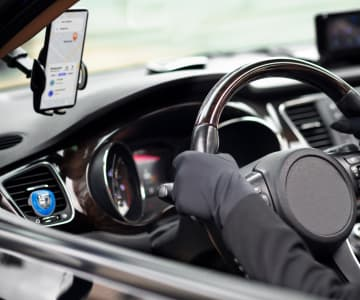
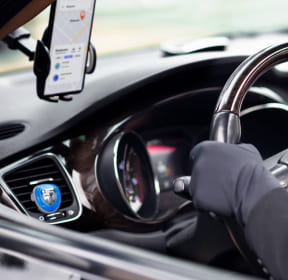
add-36-pictures

diff --git a/index.html b/index.html
@@ -377,12 +377,36 @@
           <ul class="portfolio-list">
             <li class="portfolio-items">
               <div class="image-overlay-box">
-                <img
+                <picture>
+                  <source
+                    srcset="
+                      ./images/portfolio/bankinterface-desktop.jpg    1x,
+                      ./images/portfolio/bankinterface-desktop-2x.jpg 2x
+                    "
+                    media="(min-width: 1158px)"
+                  />
+                  <source
+                    srcset="
+                      ./images/portfolio/bankinterface-tab.jpg    1x,
+                      ./images/portfolio/bankinterface-tab-2x.jpg 2x
+                    "
+                    media="(min-width: 768px)"
+                  />
+                  <source
+                    srcset="
+                      ./images/portfolio/bankinterface.jpg    1x,
+                      ./images/portfolio/bankinterface-2x.jpg 2x
+                    "
+                    media="(max-width: 767px)"
+                  />
+                  <img
                   class="portfolio-img"
                   src="./images/portfolio/bankinterface.jpg"
-                  alt="bankigapp"
+                  alt="bankingapp"
                   width="360"
                 />
+                </picture>
+             
                 <p class="portfolio-overlay">
                   14 Stylish and User-Friendly App Design Concepts · Task
                   Manager App · Calorie Tracker App · Exotic Fruit Ecommerce App
@@ -397,12 +421,36 @@
 
             <li class="portfolio-items">
               <div class="image-overlay-box">
-                <img
-                  class="portfolio-img"
-                  src="./images/portfolio/phone.jpg"
-                  alt="phone"
-                  width="360"
+                <picture>
+                  <source
+                  srcset="
+                  ./images/portfolio/phone-desktop.jpg 1x,
+                    ./images/portfolio/phone-desktop-2x.jpg 2x
+                  "
+                  media="(min-width: 1158px)"
                 />
+                <source
+                  srcset="
+                    ./images/portfolio/phone-tab.jpg    1x,
+                    ./images/portfolio/phone-tab-2x.jpg 2x
+                  "
+                  media="(min-width: 768px)"
+                />
+                <source
+                  srcset="
+                  ./images/portfolio/phone.jpg 1x,
+                  ./images/portfolio/phone-2x.jpg 2x
+                  "
+                  media="(max-width: 767px)"
+                />
+                <img
+                class="portfolio-img"
+                src="./images/portfolio/phone.jpg"
+                alt="phone"
+                width="360"
+              />
+                </picture>
+               
                 <p class="portfolio-overlay">
                   14 Stylish and User-Friendly App Design Concepts · Task
                   Manager App · Calorie Tracker App · Exotic Fruit Ecommerce App
@@ -417,12 +465,36 @@
 
             <li class="portfolio-items">
               <div class="image-overlay-box">
+                <picture>
+                  <source
+                  srcset="
+                  ./images/portfolio/laptop-desktop.jpg 1x,
+                    ./images/portfolio/laptop-desktop-2x.jpg 2x
+                  "
+                  media="(min-width: 1158px)"
+                />
+                <source
+                  srcset="
+                    ./images/portfolio/laptop-tab.jpg    1x,
+                    ./images/portfolio/laptop-tab-2x.jpg 2x
+                  "
+                  media="(min-width: 768px)"
+                />
+                <source
+                  srcset="
+                  ./images/portfolio/laptop.jpg 1x,
+                  ./images/portfolio/laptop-2x.jpg 2x
+                  "
+                  media="(max-width: 767px)"
+                />
                 <img
                   class="portfolio-img"
                   src="./images/portfolio/laptop.jpg"
                   alt="laptop"
                   width="360"
                 />
+                </picture>
+                
                 <p class="portfolio-overlay">
                   14 Stylish and User-Friendly App Design Concepts · Task
                   Manager App · Calorie Tracker App · Exotic Fruit Ecommerce App
@@ -438,12 +510,37 @@
 
             <li class="portfolio-items">
               <div class="image-overlay-box">
-                <img
+                <picture>
+                  <picture>
+                    <source
+                    srcset="
+                    ./images/portfolio/cardriver-desktop.jpg 1x,
+                      ./images/portfolio/cardriver-desktop-2x.jpg 2x
+                    "
+                    media="(min-width: 1158px)"
+                  />
+                  <source
+                    srcset="
+                      ./images/portfolio/cardriver-tab.jpg  1x,
+                      ./images/portfolio/cardriver-tab-2x.jpg 2x
+                    "
+                    media="(min-width: 768px)"
+                  />
+                  <source
+                    srcset="
+                    ./images/portfolio/cardriver.jpg 1x,
+                    ./images/portfolio/cardriver-2x.jpg 2x
+                    "
+                    media="(max-width: 767px)"
+                  />
+                  <img
                   class="portfolio-img"
                   src="./images/portfolio/cardriver.jpg"
                   alt="cardriver"
                   width="360"
                 />
+                </picture>
+                
                 <p class="portfolio-overlay">
                   14 Stylish and User-Friendly App Design Concepts · Task
                   Manager App · Calorie Tracker App · Exotic Fruit Ecommerce App
@@ -457,12 +554,36 @@
             </li>
             <li class="portfolio-items">
               <div class="image-overlay-box">
+                <picture>
+                  <source
+                  srcset="
+                  ./images/portfolio/phonedisplay-desktop.jpg 1x,
+                    ./images/portfolio/phonedisplay-desktop-2x.jpg 2x
+                  "
+                  media="(min-width: 1158px)"
+                />
+                <source
+                  srcset="
+                    ./images/portfolio/phonedisplay-tab.jpg 1x,
+                    ./images/portfolio/phonedisplay-tab-2x.jpg 2x
+                  "
+                  media="(min-width: 768px)"
+                />
+                <source
+                  srcset="
+                  ./images/portfolio/phonedisplay.jpg 1x,
+                  ./images/portfolio/phonedisplay-2x.jpg 2x
+                  "
+                  media="(max-width: 767px)"
+                />
                 <img
                   class="portfolio-img"
                   src="./images/portfolio/phonedisplay.jpg"
                   alt="phonedisplay"
                   width="360"
                 />
+                </picture>
+                
                 <p class="portfolio-overlay">
                   14 Stylish and User-Friendly App Design Concepts · Task
                   Manager App · Calorie Tracker App · Exotic Fruit Ecommerce App
@@ -476,12 +597,36 @@
             </li>
             <li class="portfolio-items">
               <div class="image-overlay-box">
-                <img
-                  class="portfolio-img"
-                  src="./images/portfolio/girl.jpg"
-                  alt="girl"
-                  width="360"
+                <picture>
+                  <source
+                  srcset="
+                  ./images/portfolio/girl-desktop.jpg 1x,
+                    ./images/portfolio/girl-desktop-2x.jpg 2x
+                  "
+                  media="(min-width: 1158px)"
                 />
+                <source
+                  srcset="
+                    ./images/portfolio/phone-tab.jpg 1x,
+                    ./images/portfolio/phone-tab-2x.jpg 2x
+                  "
+                  media="(min-width: 768px)"
+                />
+                <source
+                  srcset="
+                  ./images/portfolio/girl.jpg 1x,
+                  ./images/portfolio/girl-2x.jpg 2x
+                  "
+                  media="(max-width: 767px)"
+                />
+                <img
+                class="portfolio-img"
+                src="./images/portfolio/girl.jpg"
+                alt="girl"
+                width="360"
+              />
+                </picture>
+              
                 <p class="portfolio-overlay">
                   14 Stylish and User-Friendly App Design Concepts · Task
                   Manager App · Calorie Tracker App · Exotic Fruit Ecommerce App
